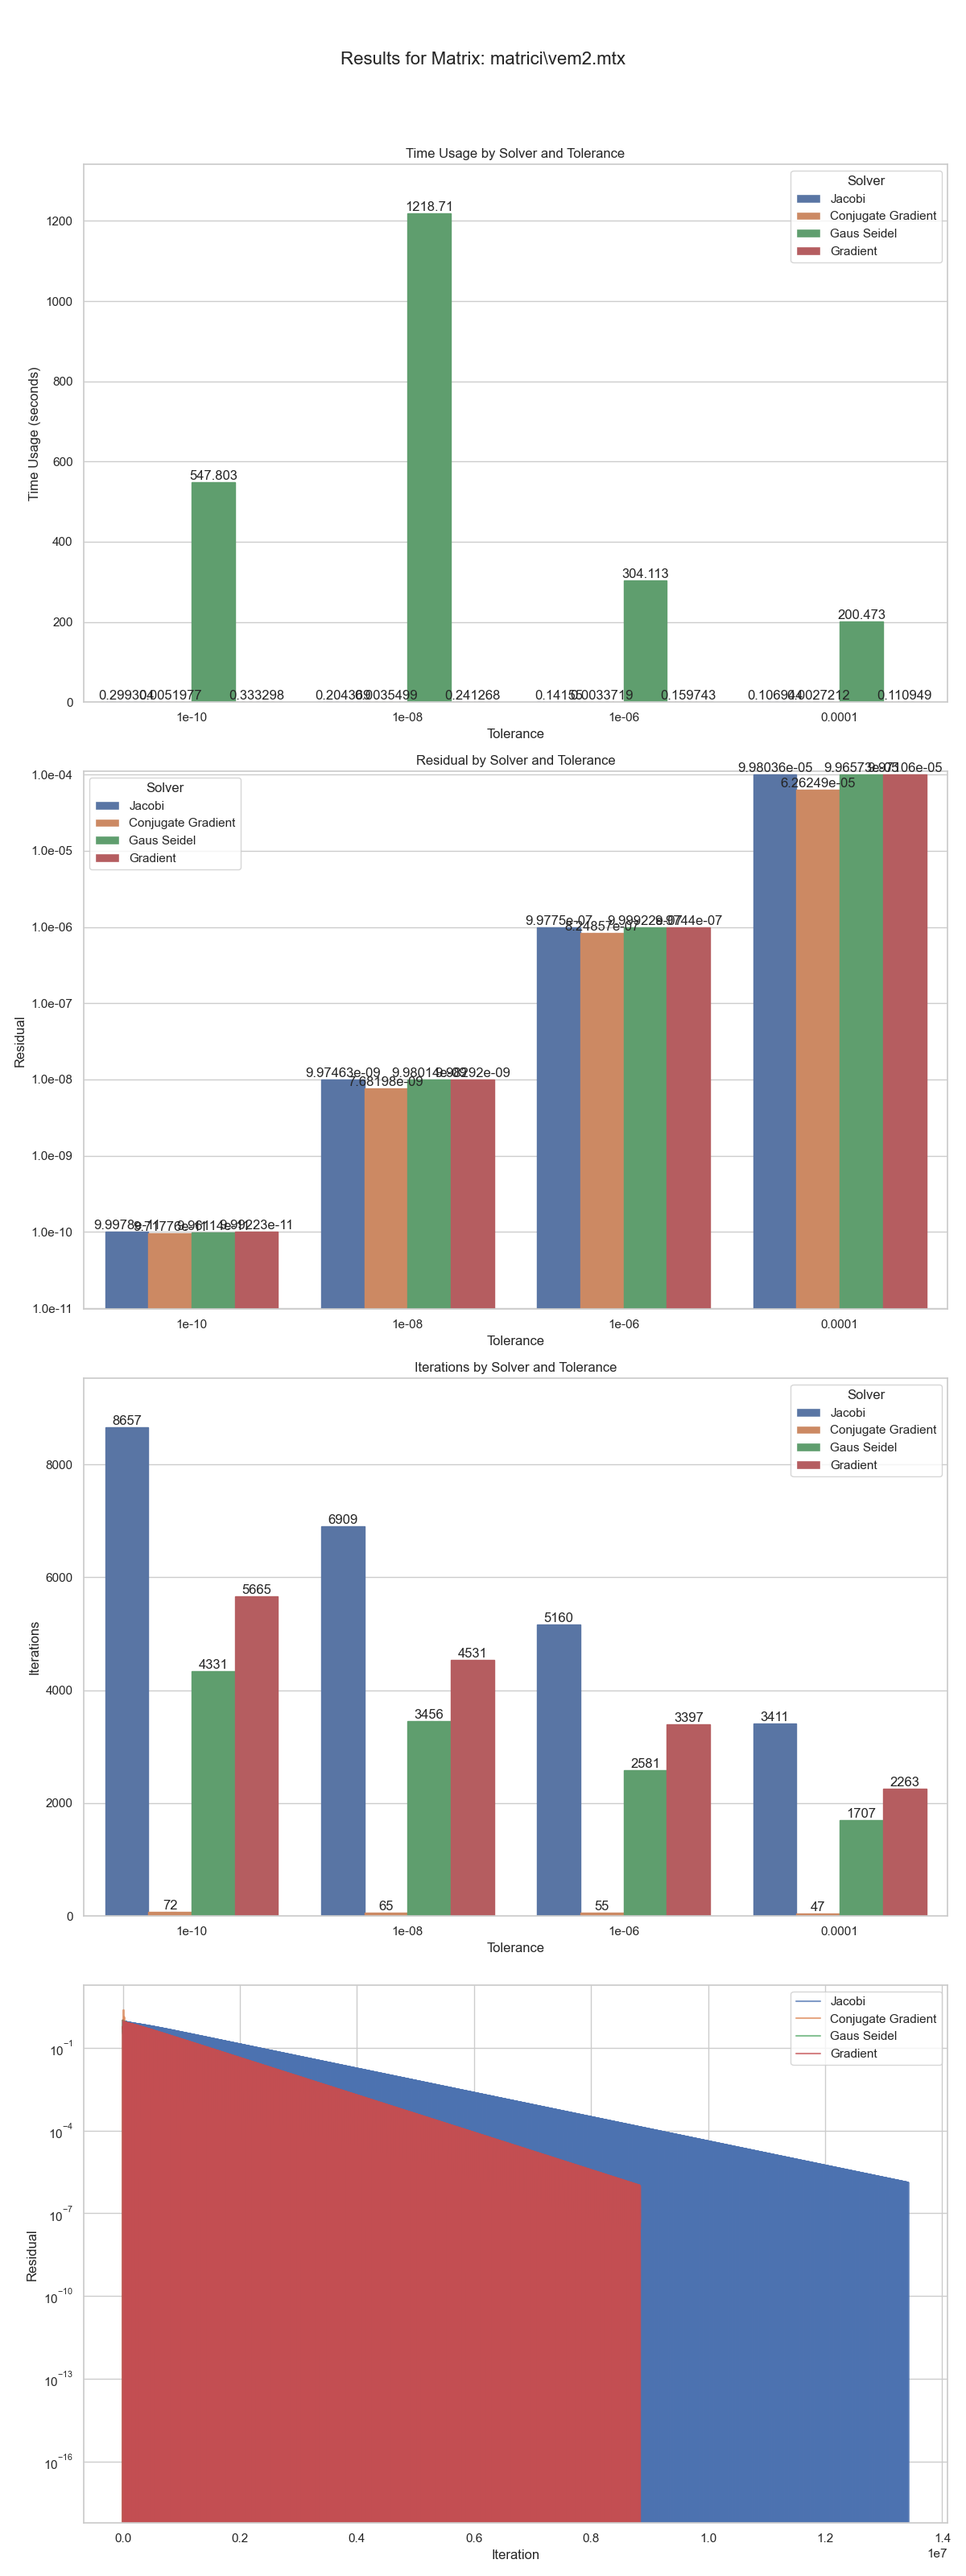
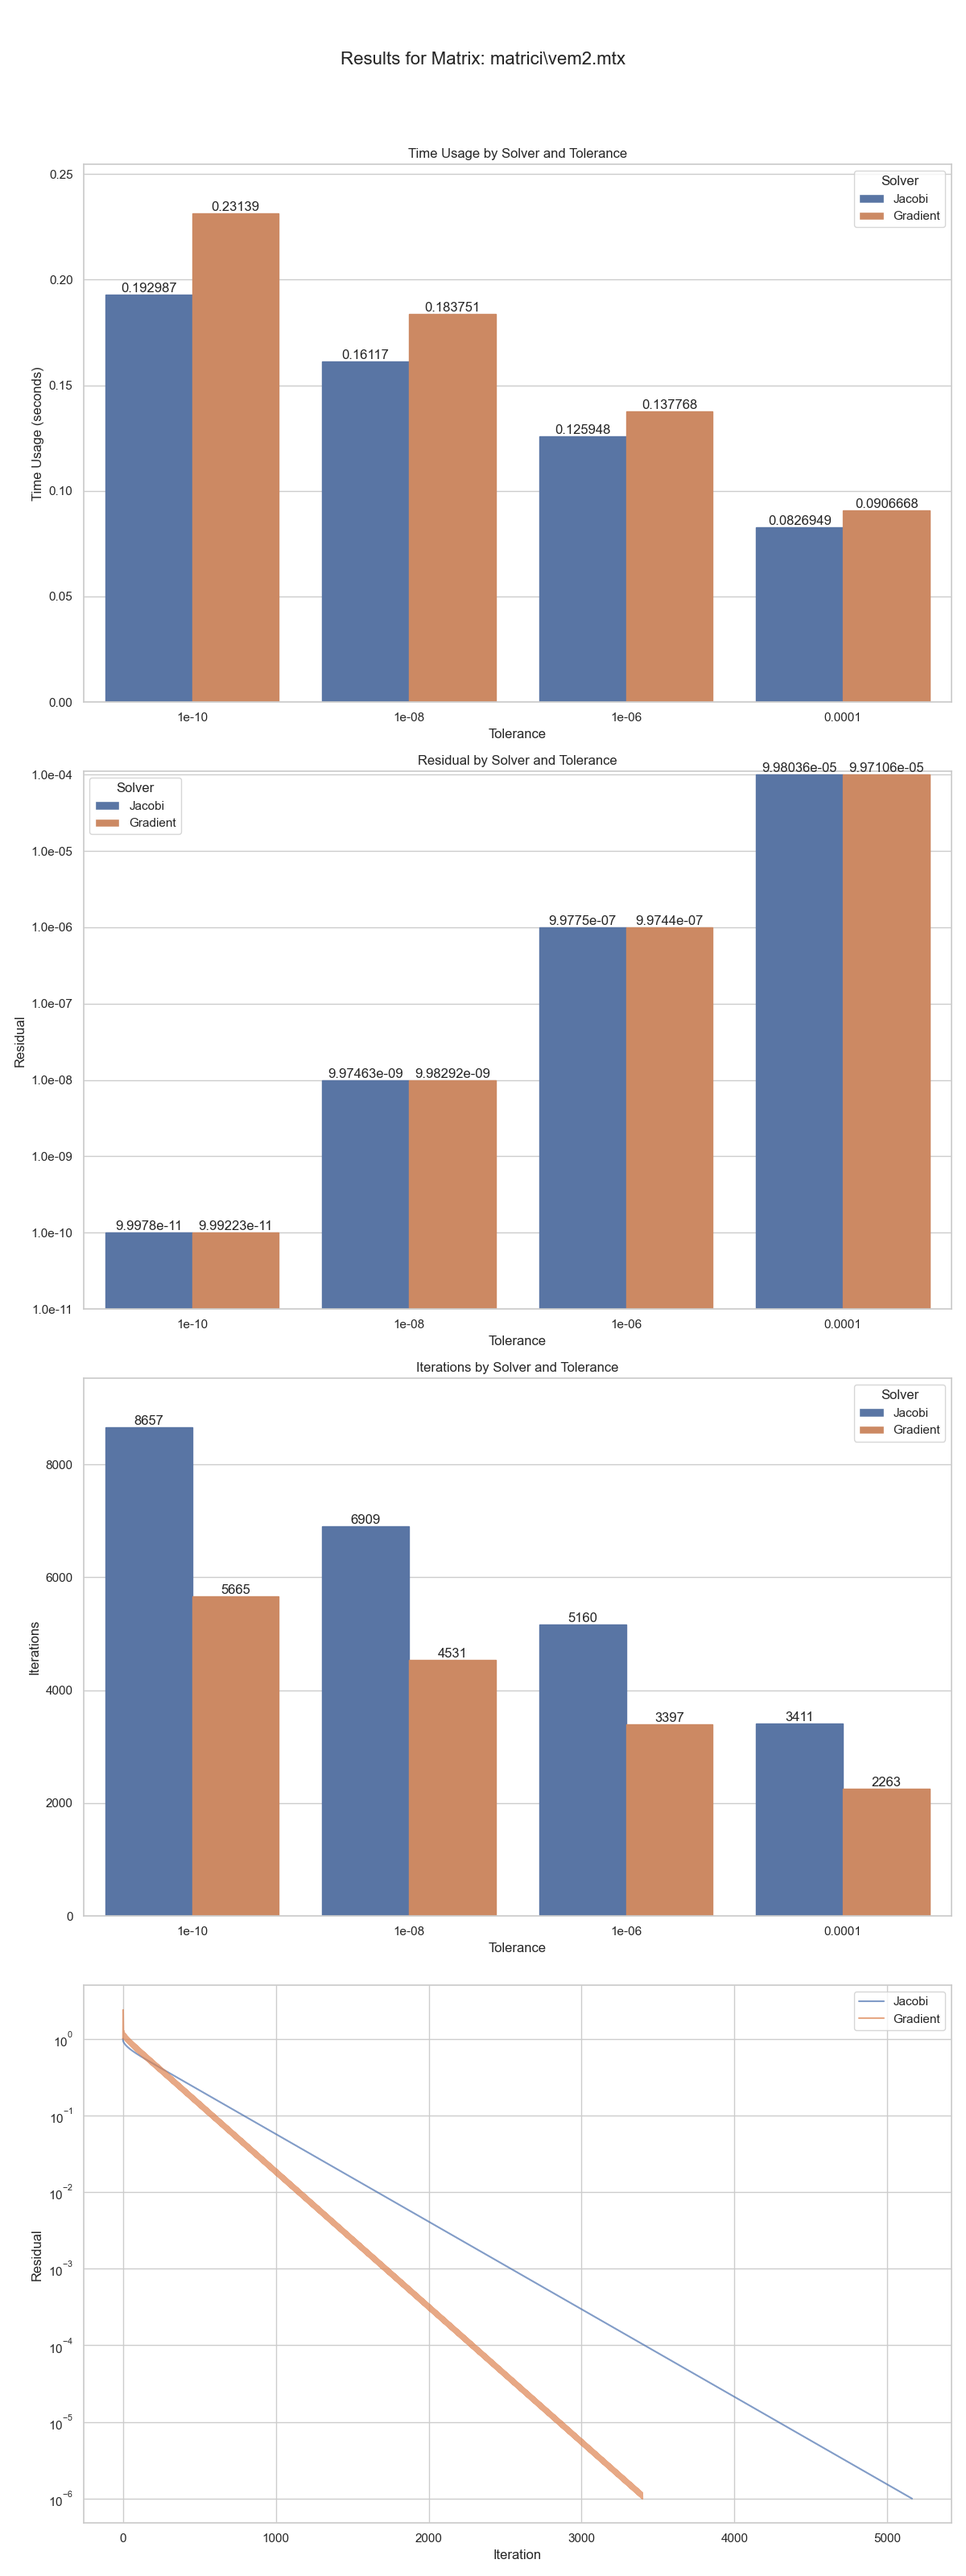
big improvements, resolved visualization bug in reasidual over iterations

diff --git a/solver_runner.py b/solver_runner.py
@@ -36,8 +36,8 @@ def run_matrix_solvers():
 
             solvers = [
                 ('Jacobi', JacobiExecuter(A, tol, max_iterations)),
-                ('Conjugate Gradient', ConjugateGradientExecuter(A, tol, max_iterations)),
-                ('Gaus Seidel', GaussSeidelExecuter(A, tol, max_iterations)),
+                #('Conjugate Gradient', ConjugateGradientExecuter(A, tol, max_iterations)),
+                #('Gauss Seidel', GaussSeidelExecuter(A, tol, max_iterations)),
                 ('Gradient', GradientExecuter(A, tol, max_iterations))
             ]
             
@@ -154,20 +154,10 @@ def plot_results(df, specific_tolerance=1e-6):
         if not tolerance_df.empty:
             # Iterate over each solver
             for solver_name in tolerance_df['Solver'].unique():
-                solver_residuals = []
-
-                # Accumulate residuals for the specific solver and tolerance
                 for _, row in tolerance_df[tolerance_df['Solver'] == solver_name].iterrows():
                     residuals = np.array(row['List of residuals'])  # Convert to numpy array
-                    residuals = residuals.flatten()  # Ensure it's flattened to 1D array
-                    solver_residuals.extend(residuals)
-
-                # Smooth the residuals
-                solver_residuals = pd.Series(solver_residuals).rolling(window=100, min_periods=1).mean().values
-
-                # Plot residuals for the solver
-                iterations = np.arange(1, len(solver_residuals) + 1)
-                axs[3].plot(iterations, solver_residuals, label=f'{solver_name}', alpha=0.7)
+                    iterations = np.arange(1, len(residuals) + 1)
+                    axs[3].plot(iterations, residuals, label=f'{solver_name}', alpha=0.7)
 
             axs[3].set_ylabel('Residual')
             axs[3].set_xlabel('Iteration')
@@ -180,6 +170,7 @@ def plot_results(df, specific_tolerance=1e-6):
         plot_path = os.path.join(RESULTS_DIR, f'{os.path.basename(matrix)}_results.png')
         plt.savefig(plot_path)
         plt.close(fig)
+
 
 def plot_enhanced_bar_chart(df, specific_tolerance=1e-6):
     df_filtered = df[df['Tolerance'] == specific_tolerance]

diff --git a/Executer.py b/Executer.py
@@ -22,13 +22,11 @@ class Executer(ABC):
 
         for self.counter in range(self.iterations):
             self.x, residual_vector = self.update_function()
-            list_of_residual.append(residual_vector)
-            residual_norm = np.linalg.norm(residual_vector)/np.linalg.norm(self.b)
+            residual_norm = np.linalg.norm(residual_vector) / np.linalg.norm(self.b)
+            list_of_residual.append(residual_norm)  # Corrected to store residual norms
             if residual_norm < self.tol:
                 print(f'{self.__class__.__name__}: Converged with residual norm {residual_norm}')
                 break
-        else:
-            print(f'{self.__class__.__name__}: Did not converge within {self.iterations} iterations')
 
         return self.counter, residual_norm, list_of_residual
 

diff --git a/GaussSeidelExecuter.py b/GaussSeidelExecuter.py
@@ -20,6 +20,7 @@ class GaussSeidelExecuter(Executer):
     def update_function(self):
         r = self.b - self.matrix.dot(self.x)  # Compute residual r(k) = b - A * x(k)
         y = self.forward_substitution(self.triang_inf, r)  # Solve P * y = r(k) using forward substitution
+        
         # self.x +y scope: update x(k) = x(k) + y
         return self.x + y, r
     

diff --git a/GradientExecuter.py b/GradientExecuter.py
@@ -15,4 +15,5 @@ class GradientExecuter(Executer):
         alpha = r_dot_r / np.dot(r, Ar)  # Compute alpha = (r^T * r) / (r^T * A * r)
         self.x += alpha * r  # Update x(k) in-place: x(k+1) = x(k) + alpha * r
         
+        
         return self.x, r

diff --git a/ConjugateGradientExecuter.py b/ConjugateGradientExecuter.py
@@ -34,4 +34,6 @@ class ConjugateGradientExecuter(Executer):
         self.r_old = self.residual
         self.p_old = p
         
+    
+        
         return self.x, self.residual
